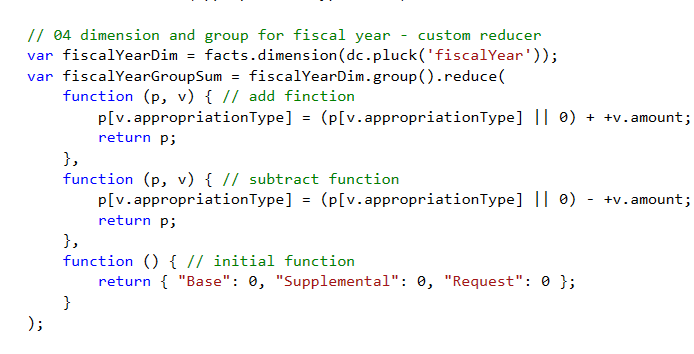
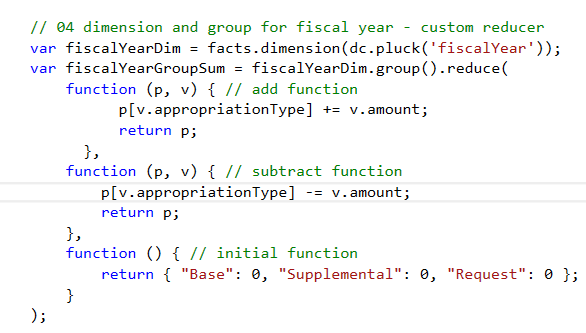
Better slides

diff --git a/slides/js/services.js b/slides/js/services.js
@@ -82,22 +82,14 @@ angular.module('talkyApp.services', [])
         { imgUrl: 'code-01.png' },
         { imgUrl: 'code-02.png' },
         { imgUrl: 'code-03.png' },
+        { imgUrl: 'code-03-console.png' },
         { imgUrl: 'code-04.png' },
+        { imgUrl: 'code-04-console.png' },
         { imgUrl: 'code-05.png' },
         { imgUrl: 'code-06.png' },
         { imgUrl: 'code-07.png' },
         { imgUrl: 'code-08.png' },
-
-        //{ imgUrl: 'get-data.png' },
-        //{ imgUrl: 'total-group.png' },
-        //{ imgUrl: 'number-display.png' },
-        //{ imgUrl: 'pie-chart.png' },
-        //{ imgUrl: 'fiscal-year-group.png' },
-        //{ imgUrl: 'fiscal-year-chart.png' },
-        //{ imgUrl: 'tick-format.png' },
-        //{ imgUrl: 'row-chart-function.png' },
-        //{ imgUrl: 'call-row-chart-function.png' },
-
+        
         {
             title: 'Questions',
             decks: [

diff --git a/foreign-assistance/js/foreignAssistanceFinal.js b/foreign-assistance/js/foreignAssistanceFinal.js
@@ -50,12 +50,12 @@ d3.csv("data/foreignAssistance.csv", function (data) {
     // 04 dimension and group for fiscal year - custom reducer  
     var fiscalYearDim = facts.dimension(dc.pluck('fiscalYear'));
     var fiscalYearGroupSum = fiscalYearDim.group().reduce(
-        function (p, v) { // add finction
-            p[v.appropriationType] = (p[v.appropriationType] || 0) + +v.amount;
-            return p;
-        },
+        function (p, v) { // add function
+              p[v.appropriationType] += v.amount;
+              return p;
+          },
         function (p, v) { // subtract function
-            p[v.appropriationType] = (p[v.appropriationType] || 0) - +v.amount;
+            p[v.appropriationType] -= v.amount;
             return p;
         },
         function () { // initial function

diff --git a/foreign-assistance/index.html b/foreign-assistance/index.html
@@ -8,7 +8,7 @@
     <script src='../lib/crossfilter.js' type='text/javascript'></script>
     <script src='../lib/dc.js' type='text/javascript'></script>
     <script src='../lib/bootstrap.min.js' type='text/javascript'></script>
-    <script src='js/foreignAssistanceFinal.js' type='text/javascript'></script>
+    <script src='js/foreignAssistance.js' type='text/javascript'></script>
 
     <link href='css/bootstrap.min.css' rel='stylesheet' type='text/css'>
     <link href='css/dc.css' rel='stylesheet' type='text/css'>
